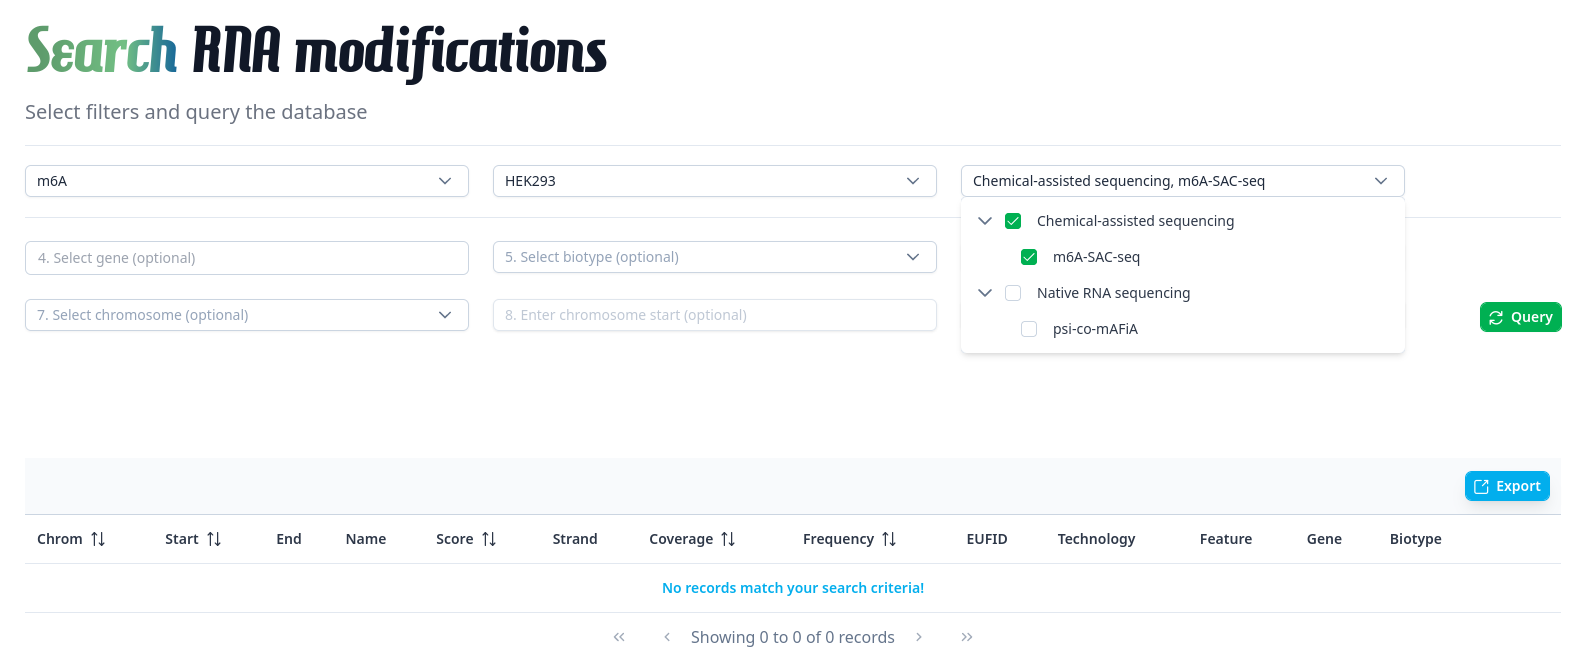
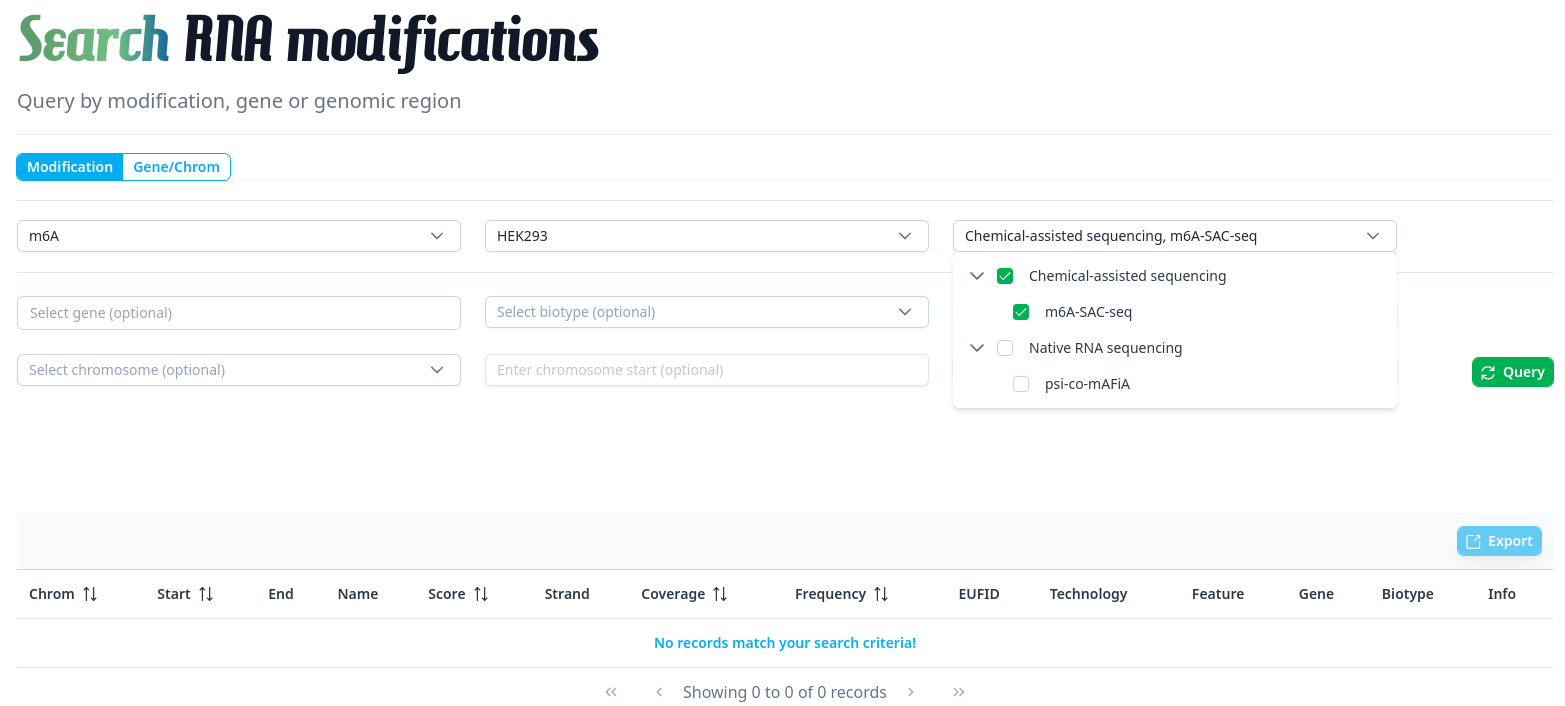
UPD docs

diff --git a/client/src/components/documentation/DocSearch.vue b/client/src/components/documentation/DocSearch.vue
@@ -6,6 +6,7 @@ import img4 from '@/assets/images/docs/search4.png'
 import img5 from '@/assets/images/docs/search5.png'
 import img6 from '@/assets/images/docs/search6.png'
 import img7 from '@/assets/images/docs/search7.png'
+import img8 from '@/assets/images/docs/search8.png'
 </script>
 
 <template>
@@ -17,8 +18,9 @@ import img7 from '@/assets/images/docs/search7.png'
       Query and filters
     </p>
     <p class="indent-4 text-lg leading-relaxed mt-2 mb-2">
-      Search modifications site-wise across whole transcriptomes. To query the database, first
-      select a modification and species:
+      Search modifications site-wise across whole transcriptomes, by organism and technology, or by
+      gene or genomic region. To query the database for a given modification, first select a
+      modification and species:
       <img :src="img1" class="object-center mt-6 mb-6" alt="Search: filter species" />
       Available cell types, tissues, and/or organisms are shown for a given modification. A standard
       nomenclature is used to describe cell strains, faithful to published data
@@ -39,6 +41,9 @@ import img7 from '@/assets/images/docs/search7.png'
       <Message severity="info" :closable="false"
         >Gene and genomic (chromosome) selection are mutually exclusive</Message
       >
+      To query the database for all modifications in a particular gene or genomic region, use the
+      toggle button, and select a gene or a genomic region:
+      <img :src="img8" class="object-center mt-6 mb-6" alt="Search: gene or chrom" />
     </p>
     <p class="indent-4 text-lg underline underline-offset-8 decoration-gb-4/25 font-semibold">
       Results table
@@ -61,10 +66,14 @@ import img7 from '@/assets/images/docs/search7.png'
         format</Message
       >
       <Message severity="success" :closable="false"
-        >Click on <i class="pi pi-plus -ml-3 mr-1" /> to retrieve site-specific information</Message
+        >Click on "Gene" to access gene table information on Ensembl</Message
+      >
+      <Message severity="success" :closable="false"
+        >Click on <i class="pi pi-info -ml-3 mr-1" /> to retrieve site-specific information</Message
       >
       Query results are shown in tabular format where sites are recorded per dataset, allowing to
-      organize data and prioritize sites with high stoichiometry, coverage, and/or score.
+      organize data and prioritize sites with high stoichiometry, coverage, and/or score. Export all
+      results to a CSV file.
       <img :src="img5" class="object-center mt-6 mb-6" alt="Search: results table" />
       All columns with arrow signs can be sorted. Multiple columns can be sorted at once, this
       requires a metaKey (<span class="italic">e.g.</span> ⌘ or Ctrl) to be pressed when clicking a
@@ -76,7 +85,7 @@ import img7 from '@/assets/images/docs/search7.png'
       <img :src="img7" class="object-center mt-6 mb-6" alt="Search: plus bottom" />
     </p>
     <p class="indent-4 text-lg leading-relaxed mt-2 mb-2">
-      Selected records can be exported to CSV, including site-specific information. To download all
+      These tables can also be exported to CSV, including site-specific information. To download
       records for a given dataset, click on the EUFID; the <span class="italic">Browse</span> view
       allows to download bedRMod-formatted records.
     </p>

diff --git a/client/src/components/documentation/DocBrowse.vue b/client/src/components/documentation/DocBrowse.vue
@@ -14,9 +14,9 @@ import img4 from '@/assets/images/docs/browse4.png'
       Query and filters
     </p>
     <p class="indent-4 text-lg leading-relaxed mt-2 mb-2">
-      Query the database to find projects and/or datasets. You can refine your search using global
-      filters (top left of table <span class="italic">e.g.</span> search for datasets containing
-      "NSUN" in their metadata or title):
+      Query the database to find projects and/or datasets, and access metadata. You can refine your
+      search using global filters (top left of table <span class="italic">e.g.</span> search for
+      datasets containing "NSUN" in their metadata or title):
       <img :src="img1" class="object-center mt-6 mb-6" alt="Browse: global filter" />
       and/or table filters (RNA type and modification, organism, cell, tissue and/or organ, or
       technology, <span class="italic">e.g.</span> search for "mESC"):
@@ -24,6 +24,10 @@ import img4 from '@/assets/images/docs/browse4.png'
       Use "Match Any" to combine filters, <span class="italic">e.g.</span> search for different
       technologies:
       <img :src="img3" class="object-center mt-6 mb-6" alt="Browse: table filter" />
+      <Message severity="warn" :closable="false"
+        >Don't forget to clear filters when changing search parameters, this is not automatically
+        done</Message
+      >
     </p>
     <p class="indent-4 text-lg underline underline-offset-8 decoration-gb-4/25 font-semibold">
       Results table
@@ -31,12 +35,11 @@ import img4 from '@/assets/images/docs/browse4.png'
     <p class="indent-4 text-lg leading-relaxed mt-2 mb-2">
       <Message severity="success" :closable="false">Download datasets as bedRMod</Message>
       <Message severity="success" :closable="false">Access or export metadata and more</Message>
-      Click the
-      <i class="pi pi-plus -ml-3 mr-1" /> button to see project-related information and additional
-      attachments (BAM files):
+      Click the info (<i class="pi pi-info -ml-4" />) button to see project-related information and
+      additional attachments (BAM files):
       <img :src="img4" class="object-center mt-6 mb-6" alt="Browse: plus" />
       BAM file attachments (if available) allow to access read-level information before it is
-      aggregated site-wise into bedRMod. A dataset can be downloaded as a
+      aggregated site-wise into bedRMod. Each dataset can be downloaded as a
       <a
         class="text-primary-500 hover:text-secondary-500"
         href="https://dieterich-lab.github.io/scimodom/bedrmod.html"

diff --git a/client/src/components/documentation/DocAbout.vue b/client/src/components/documentation/DocAbout.vue
@@ -50,7 +50,7 @@ import img2 from '@/assets/images/docs/about2.png'
       </a>
       short name. The classification of detection technologies is based on the underlying assay,
       <span class="italic">e.g.</span>
-      chemical- or enzyme/protein-assisted sequencing (NGS 2nd generation), and Native RNA or cDNA
+      chemical- or enzyme/protein-assisted sequencing (NGS 2nd generation), and native RNA or cDNA
       sequencing (NGS 3rd generation).
     </p>
     <p class="indent-4 text-lg underline underline-offset-8 decoration-gb-4/25 font-semibold">
@@ -70,8 +70,9 @@ import img2 from '@/assets/images/docs/about2.png'
     </p>
     <p class="indent-4 text-lg leading-relaxed mt-2 mb-2">
       Projects are identified using a <span class="font-semibold">SMID</span> or
-      <span class="font-semibold">Sci-ModoM identifier</span>. Click on the
-      <i class="pi pi-plus -ml-3 mr-1" /> button to access this information and more:
+      <span class="font-semibold">Sci-ModoM identifier</span>. Click on the info (<i
+        class="pi pi-info -ml-4"
+      />) button to access this information and more:
       <img :src="img2" class="object-center mt-6 mb-6" alt="About: project" />
     </p>
     <p class="indent-4 text-lg underline underline-offset-8 decoration-gb-4/25 font-semibold">
@@ -97,6 +98,9 @@ import img2 from '@/assets/images/docs/about2.png'
       Only one genome assembly version per species is used in Sci-ModoM. Dataset that do not match
       the database assembly version are lifted over. Only chromosome-level information is
       considered; unassigned contigs or scaffolds are discarded.
+      <Message severity="info" :closable="false"
+        >Sci-ModoM currently uses human GRCh38 and mouse GRCm39</Message
+      >
     </p>
     <p class="indent-4 text-xl leading-relaxed mt-12 mb-2">
       For detailed documentation and development notes, consult the

diff --git a/client/src/components/documentation/DocCompare.vue b/client/src/components/documentation/DocCompare.vue
@@ -17,8 +17,11 @@ import img4 from '@/assets/images/docs/compare4.png'
       Compare datasets to one another by finding modification sites common to multiple datasets
       (intersection) or those only found in a group of datasets (difference), or find modification
       sites in a given dataset that are close to, but not intersecting with sites in other datasets
-      (closest). Perform these operations strand-aware or unaware. Use available datasets, or upload
-      your own data to compare it against database records, without registration or login.
+      (closest). Perform these operations strand-aware or unaware.
+      <span class="font-semibold"
+        >Use available datasets, or upload your own data to compare it against database records,
+        without registration or login</span
+      >.
     </p>
     <p class="indent-4 text-lg leading-relaxed mt-2 mb-2">
       First select a given organism, then select up to 3 reference datasets. Use the search bar
@@ -33,7 +36,8 @@ import img4 from '@/assets/images/docs/compare4.png'
       to BED6.
       <Message severity="warn" :closable="false"
         >Data coming from a different assembly or an inconsistent choice of reference dataset will
-        lead to spurious comparison results</Message
+        lead to spurious comparison results. Liftover is not yet available for data
+        comparison!</Message
       >
       Finally, select the operation you want to perform on the datasets selected in previous steps:
       <img :src="img3" class="object-center mt-6 mb-6" alt="Compare: filter 3" />

diff --git a/client/src/components/home/HomeRelease.vue b/client/src/components/home/HomeRelease.vue
@@ -26,9 +26,10 @@ onMounted(() => {
         <h1 class="font-ham text-4xl font-semibold m-auto p-4 dark:text-white/80">
           <span>Release</span>
         </h1>
-        <p class="text-xl font-medium text-gray-600 pt-4 pb-2 dark:text-surface-400">
+        <p class="leading-loose text-xl font-medium text-gray-600 pt-4 pb-2 dark:text-surface-400">
           Sci-ModoM contains {{ sites }} reported sites with stoichiometric information across
-          {{ datasets }} datasets, annotated using Ensembl release 110.
+          {{ datasets }} datasets, for genome assemblies <br />
+          GRCh38 (human) and GRCm39 (mouse), annotated using Ensembl release 110.
         </p>
         <div class="flex flex-row pt-12">
           <div class="basis-1/2">

diff --git a/client/src/components/home/HomeIntro.vue b/client/src/components/home/HomeIntro.vue
@@ -14,7 +14,7 @@
       </p>
     </div>
     <div class="flex justify-center mt-4 animate-pulse">
-      <a href="https://www.trr319-rmap.de" target="_blank" rel="noopener noreferrer">
+      <a href="https://humanrnomeproject.org" target="_blank" rel="noopener noreferrer">
         <Button icon="pi pi-arrow-right" label="Learn more" rounded />
       </a>
     </div>

diff --git a/server/docs/source/bedrmod.rst b/server/docs/source/bedrmod.rst
@@ -71,7 +71,7 @@ As bedRMod contains data for only one organism, only one reference to organism, 
 
 
 While all tags are required, ``sequencing_platform``, ``basecalling``, ``bioinformatics_workflow``, ``experiment`` or ``external_source`` can be left
-empty *e.g.*
+empty, although it is strongly advised to provide as much information as possible, *e.g.*
 
 ::
 
@@ -89,8 +89,7 @@ empty *e.g.*
 
 .. attention::
 
-    For data upload to Sci-ModoM, ``fileformat``, ``organism``, and ``assembly`` are validated. Only the latest specifications are used, and only ``modification_type=RNA`` is allowed. The ``assembly`` tag entry must match exactly the chosen assembly and must follow the Ensembl nomenclature.
-    Additional user-defined tags or extra header lines starting with ``#`` are ignored during upload.
+    For data upload to Sci-ModoM, ``fileformat``, ``organism``, and ``assembly`` are validated. Only the latest specifications are used, and only ``modification_type=RNA`` is allowed. The ``assembly`` tag entry must match exactly the assembly chosen from the dropdown menu during upload, and it must follow the Ensembl nomenclature. Data does not have to be for a specific genome assembly, Sci-ModoM will take care of lifting over all records to the most recent assembly for each organism. Additional user-defined tags or extra header lines starting with ``#`` are ignored during upload.
 
 
 The data section

diff --git a/server/docs/source/flask.rst b/server/docs/source/flask.rst
@@ -98,3 +98,9 @@ If required, a project and all associated data can be removed with
 .. code-block:: bash
 
     flask delete [OPTIONS] SMID
+
+To force update the charts, run
+
+.. code-block:: bash
+
+    flask sunburst-update [OPTIONS]
